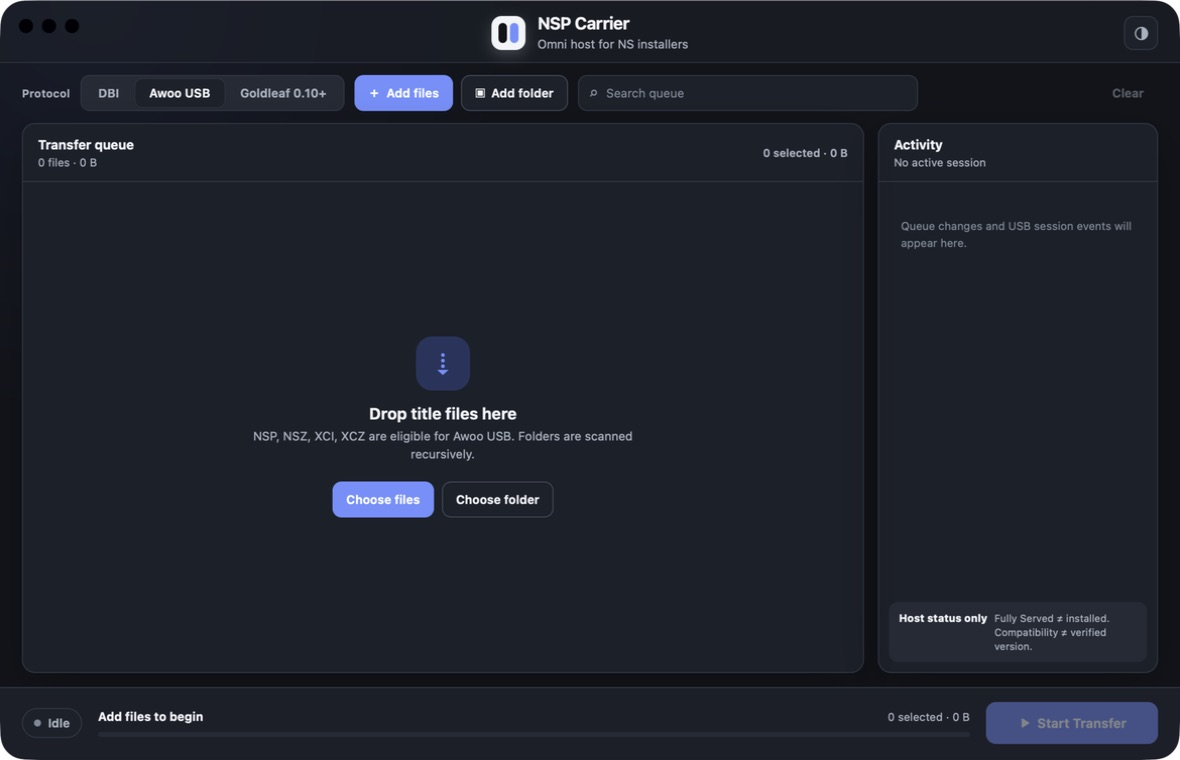
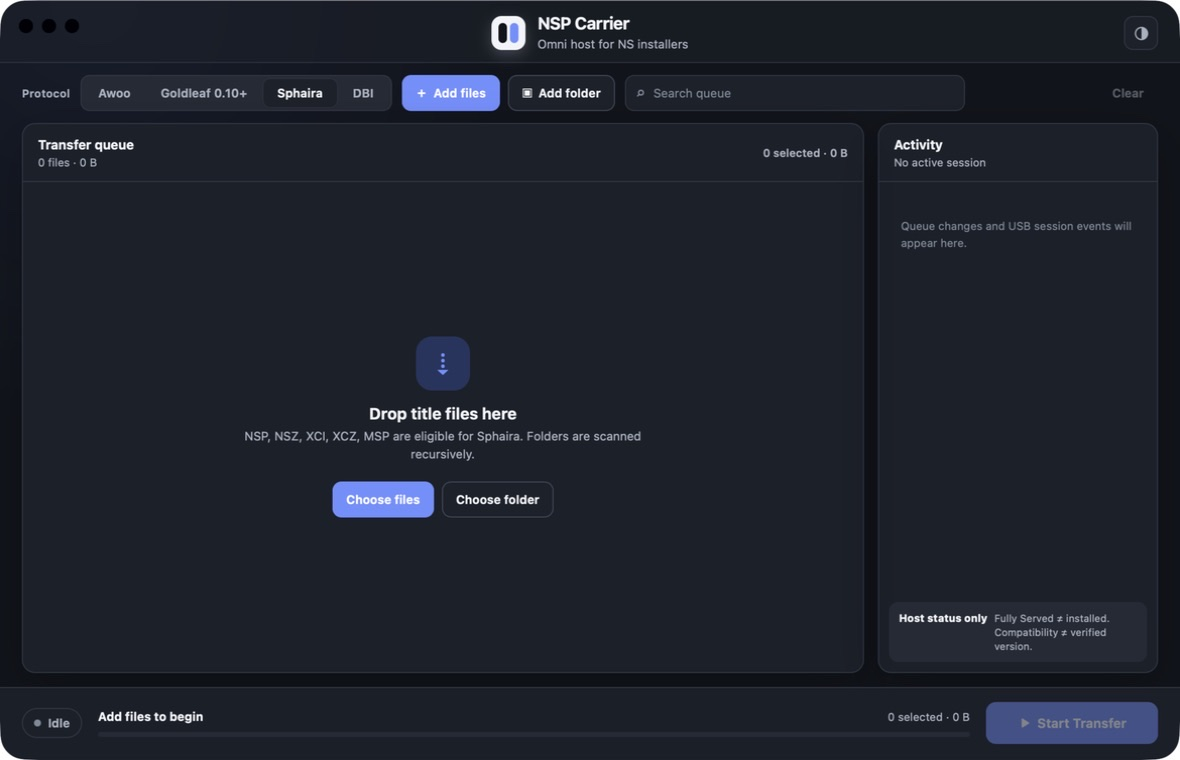
docs: refresh installer profile screenshots

Changed region(s): [[0.0915, 0.0908, 0.6102, 0.1513], [0.2136, 0.5447, 0.5492, 0.6053]]

diff --git a/README.cn.md b/README.cn.md
@@ -18,7 +18,11 @@
 
 ## 功能
 
-- 通过显式选择的安装器 profile（Awoo、Goldleaf 0.10+、Sphaira 1.0+ 或 DBI）经 USB 提供文件服务。
+- 通过显式选择的安装器 profile 经 USB 提供文件服务：
+  - [Awoo](https://github.com/Huntereb/Awoo-Installer)
+  - [Goldleaf 0.10+](https://github.com/XorTroll/Goldleaf)
+  - [Sphaira 1.0+](https://github.com/NaGaa95/sphaira)
+  - DBI
 - 文件与递归文件夹选择，支持拖放。
 - 队列支持搜索与重复文件名校验。
 - 逐文件唯一字节进度、有界活动日志与类型化错误。

diff --git a/README.md b/README.md
@@ -24,7 +24,10 @@ Representative queue and transfer-progress state:
 ## Features
 
 - Serves files over USB through an explicitly selected installer profile:
-  Awoo, Goldleaf 0.10+, Sphaira 1.0+, or DBI.
+  - [Awoo](https://github.com/Huntereb/Awoo-Installer)
+  - [Goldleaf 0.10+](https://github.com/XorTroll/Goldleaf)
+  - [Sphaira 1.0+](https://github.com/NaGaa95/sphaira)
+  - DBI
 - File and recursive folder selection, with drag and drop.
 - Queue with search and duplicate-basename validation.
 - Per-file unique-byte progress, bounded activity logs, and typed errors.
